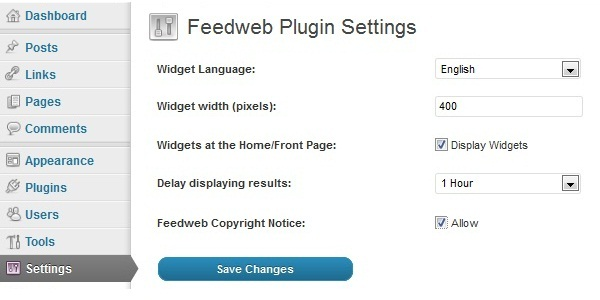
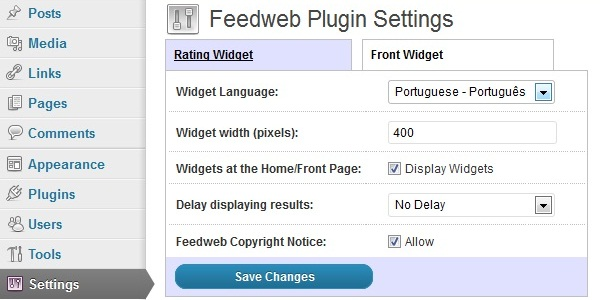
git-svn-id: https://plugins.svn.wordpress.org/feedweb/trunk@543155 b8457f37-d9ea-0310-8a92-e5e31aec5664

Changed region(s): [[0.0, 0.0, 0.99, 1.0], [0.63, 0.54, 0.99, 0.78], [0.0, 0.21, 0.12, 0.27]]

diff --git a/feedweb_options.php b/feedweb_options.php
@@ -224,7 +224,7 @@ function FeedwebPluginOptions()
 											<span><b><?php _e("Widget Language:", "FWTD")?></b></span>
 										</td>
 										<td style='width: 10px;'/>
-										<td style='width: 150px;'>
+										<td style='width: 200px;'>
 											<?php BuildLanguageBox($feedweb_data['language'], $feedweb_data['language_set']) ?>
 										</td>
 										<td style='width: 10px;'/>
@@ -300,7 +300,7 @@ function FeedwebPluginOptions()
 											<span><b><?php _e("Front Page Widget Color Sceme:", "FWTD")?></b></span> 				
 										</td>
 										<td style='width: 10px;'/>
-										<td style="width: 150px;">
+										<td style="width: 200px;">
 											<?php BuildColorSchemeBox($feedweb_data['front_widget_color_scheme']) ?>				
 										</td>
 										<td style='width: 10px;'/>

diff --git a/feedweb.php b/feedweb.php
@@ -4,7 +4,7 @@ Plugin Name: Feedweb
 Plugin URI: http://wordpress.org/extend/plugins/feedweb/
 Description: Expose your blog to the Feedweb reader's community. Promote your views. Get a comprehensive and detailed feedback from your readers.
 Author: Feedweb
-Version: 1.3.5
+Version: 1.3.6
 Author URI: http://feedweb.net
 */
 
